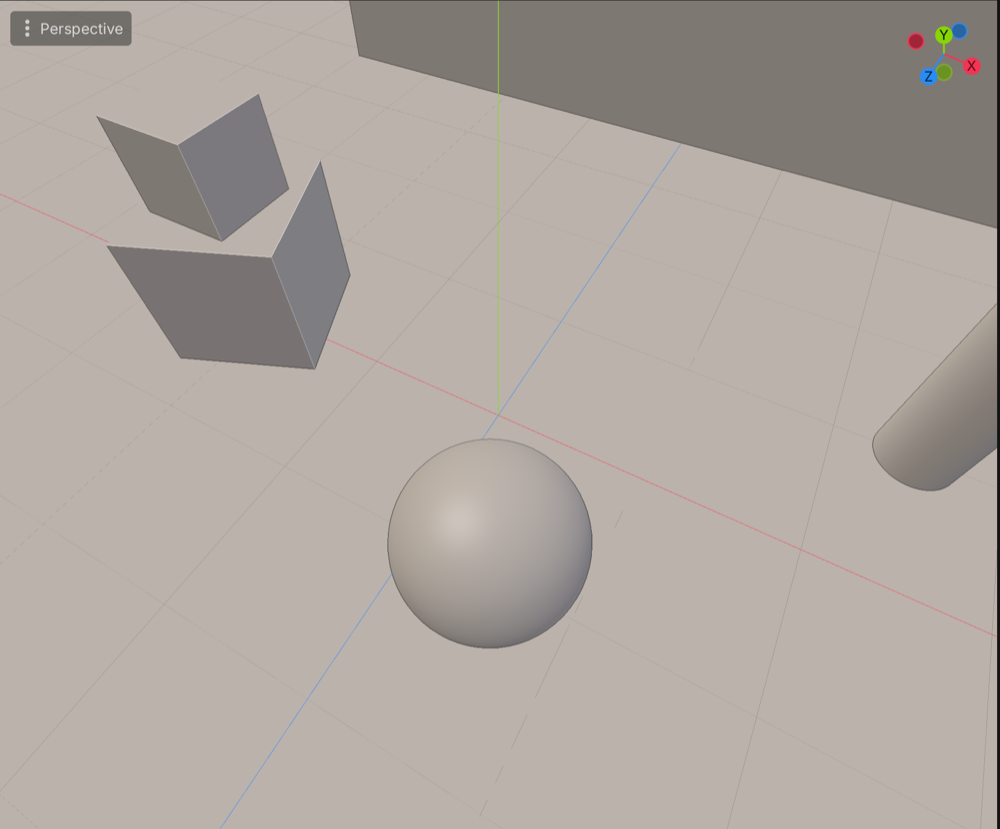
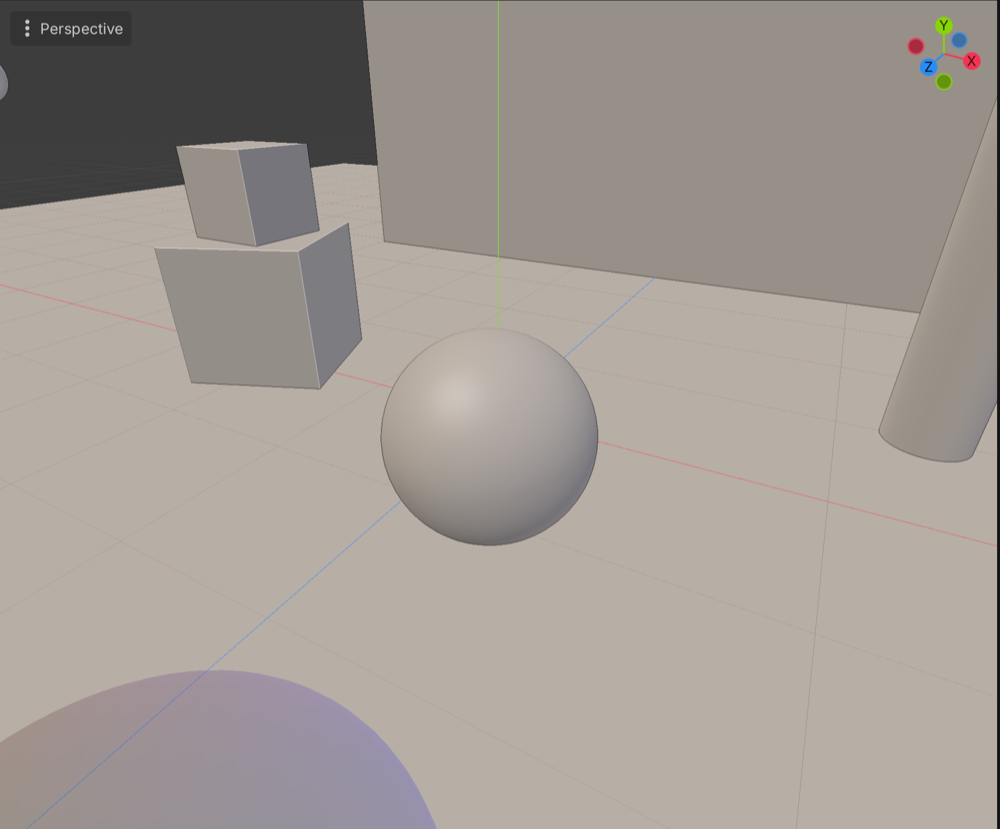
Pin the capture camera, and draw the outline on smaller depth steps
The README images were taken from whatever view the editor last had, and
the last run had drifted to a top-down angle where box tops merged into the
floor. tools/capture.sh now writes the scene's edit-state file before the
editor opens it, so every run looks from the same place.

The outline threshold drops from 8% to 3% of the inverse distance, so a box
top against the floor behind it gets an edge from a steep view too. Flat
surfaces still score zero, since the test is on second differences.

diff --git a/docs/development.md b/docs/development.md
@@ -4,7 +4,7 @@
 
 - `addons/solid_view/`: the addon, the only folder another project needs. `plugin.gd` builds the toolbar and shortcut; `solid_view_controller.gd` puts the mode on the four editor viewports and takes it off; `solid_view_effect.gd` is the `CompositorEffect` that drives `solid_view.glsl`; `solid_view_settings.gd` reads and writes the Editor Settings; `matcaps/` holds the bundled matcap.
 - `test/`: a scene with heavy fog, glow and coloured lights to prove the mode on, and the headless test.
-- `tools/`: `run_tests.sh`, `sync_to.sh <project>`, `capture.gd` (windowed screenshots of every mode into `docs/captures/`, gitignored) and `make_matcap.gd` (bakes `matcaps/clay.png`).
+- `tools/`: `run_tests.sh`, `sync_to.sh <project>`, `capture.sh` with `capture.gd` (windowed screenshots of every mode into `docs/captures/`, gitignored) and `make_matcap.gd` (bakes `matcaps/clay.png`).
 - `docs/`: this file and the README images.
 
 ## Conventions
@@ -23,13 +23,13 @@ tools/run_tests.sh
 
 runs `test/plugin_test.gd` with `--headless --editor` under a throwaway `HOME`: the plugin loads, the toggle is in the toolbar, and the controller takes over and restores the viewports. Expect `FAILURES 0`. Headless Godot has no RenderingDevice, so the effect itself is inert there; the shader is only exercised windowed.
 
-For the look, run the capture with a scratch `HOME` and a fixed window size:
+For the look:
 
 ```bash
-HOME=/tmp/solid_view_home "/Applications/Godot 4.7.2.app/Contents/MacOS/Godot" --editor --resolution 1600x900 --path . -s res://tools/capture.gd
+tools/capture.sh
 ```
 
-It opens `test/test_scene.tscn`, saves `docs/captures/before.png`, then one screenshot per mode, then `after.png` with the mode off again.
+It pins the editor's view of the test scene by writing the scene's edit-state file (`.godot/editor/test_scene.tscn-editstate-<md5>.cfg`, which the editor reads when it opens the scene), then runs `tools/capture.gd` in a windowed editor under a scratch `HOME` at 1600x900. That opens `test/test_scene.tscn`, saves `docs/captures/before.png`, then one screenshot per mode with cavity and outline on, `studio_plain.png` with them off, and `after.png` with the mode off again. The README images are the viewport cropped out of those (`sips -c 1560 1880 --cropOffset 240 575`, resampled to 1000 wide).
 
 After changing `solid_view.glsl`, a windowed run is also the compile check: a bad shader prints `Solid View: the compute shader failed to compile` with the GLSL error.
 
